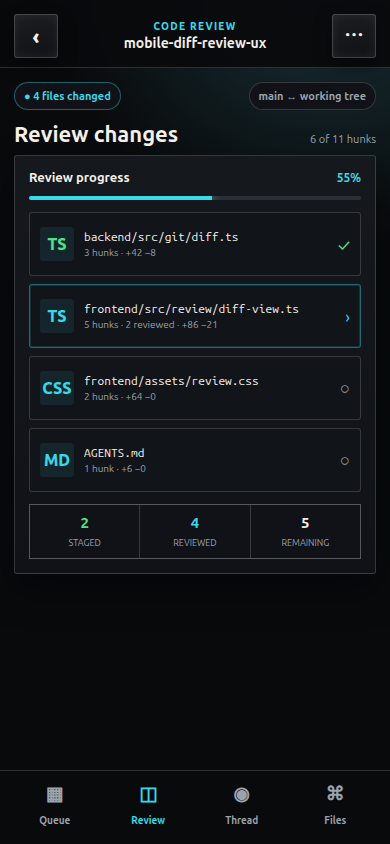
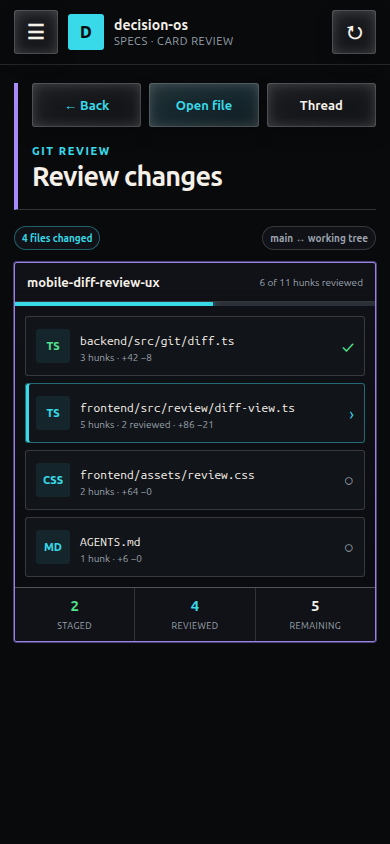
docs(ux): align mobile diff mockups with decision os

diff --git a/.decision-os/ui-mockups/mobile-diff-review/review-shell.css b/.decision-os/ui-mockups/mobile-diff-review/review-shell.css
@@ -10,50 +10,78 @@
   --muted: #9ba3ad;
   --accent: #38d9e8;
   --green: #53e08a;
-  --red: #ff7668;
-  --amber: #f4b942;
+  --red: #d96060;
+  --amber: #f59e0b;
   --zone: #a78bfa;
+  --control-bg: linear-gradient(165deg, #1b1d21 0%, #14161a 54%, #101215 100%);
+  --control-bg-primary: linear-gradient(165deg, #1f3035 0%, #14252b 54%, #0e1b20 100%);
+  --control-shadow: inset 0 0 0 1px rgba(255,255,255,.14), inset 0 0 12px rgba(255,255,255,.16), inset 0 0 24px rgba(255,255,255,.08), 0 7px 18px rgba(0,0,0,.22);
   font-family: Ubuntu, system-ui, sans-serif;
   background: var(--bg);
   color: var(--text);
 }
+
 * { box-sizing: border-box; }
 html, body { width: 390px; height: 844px; margin: 0; overflow: hidden; background: var(--bg); }
 button { color: inherit; font: inherit; }
-.phone { position: relative; width: 390px; height: 844px; overflow: hidden; background: radial-gradient(circle at 85% -5%, #19343a 0, transparent 30%), var(--bg); }
-.topbar { display: grid; grid-template-columns: 44px minmax(0, 1fr) 44px; align-items: center; min-height: 68px; padding: 12px 14px 8px; border-bottom: 1px solid var(--line); background: rgba(9,10,12,.94); }
-.topbar-copy { min-width: 0; text-align: center; }
-.eyebrow { display: block; color: var(--accent); font-size: 10px; font-weight: 850; letter-spacing: .13em; text-transform: uppercase; }
-.topbar strong { display: block; overflow: hidden; margin-top: 3px; font-size: 14px; text-overflow: ellipsis; white-space: nowrap; }
-.icon-button, .action { min-height: 44px; border: 0; border-radius: 3px; background: linear-gradient(165deg,#1b1d21,#101215); box-shadow: inset 0 0 0 1px var(--line), inset 0 0 12px #ffffff14, 0 7px 18px #0006; font-weight: 800; }
-.icon-button { display: grid; width: 44px; place-items: center; font-size: 21px; }
-.content { height: calc(844px - 68px - 74px); overflow: hidden; padding: 14px; }
-.review-meta { display: flex; align-items: center; justify-content: space-between; gap: 10px; margin-bottom: 12px; }
-.pill { display: inline-flex; align-items: center; gap: 6px; min-height: 28px; padding: 5px 9px; border: 1px solid var(--line); border-radius: 999px; color: var(--muted); background: var(--panel-deep); font-size: 11px; font-weight: 750; }
-.pill.accent { border-color: #38d9e866; color: var(--accent); }
-.pill.green { border-color: #53e08a66; color: var(--green); }
-.section-title { display: flex; align-items: end; justify-content: space-between; margin: 0 0 10px; }
-.section-title h1 { margin: 0; font-size: 22px; line-height: 1.05; }
-.section-title small { color: var(--muted); font-size: 11px; }
-.panel { border: 1px solid var(--line); border-radius: 3px; background: linear-gradient(180deg,var(--panel),var(--panel-deep)); box-shadow: 0 16px 38px #0007; }
-.bottom-nav { position: absolute; inset: auto 0 0; display: grid; grid-template-columns: repeat(4,1fr); min-height: 74px; padding: 7px 8px 12px; border-top: 1px solid var(--line); background: rgba(9,10,12,.98); }
-.nav-item { display: grid; place-items: center; gap: 2px; border: 0; color: var(--muted); background: transparent; font-size: 10px; font-weight: 750; }
-.nav-item span { font-size: 19px; line-height: 1; }
-.nav-item.active { color: var(--accent); }
-.progress { height: 4px; overflow: hidden; border-radius: 99px; background: #2b3038; }
-.progress span { display: block; height: 100%; background: var(--accent); box-shadow: 0 0 10px var(--accent); }
-.file-path { overflow: hidden; color: var(--text); font-family: "Ubuntu Mono", monospace; font-size: 12px; text-overflow: ellipsis; white-space: nowrap; }
+
+.phone { position: relative; width: 390px; height: 844px; overflow: hidden; background: var(--bg); }
+.app-topbar { display: flex; align-items: center; gap: 10px; min-height: 64px; padding: 10px 14px; border-bottom: 1px solid rgba(255,255,255,.12); background: rgba(8,10,12,.96); }
+.brand { display: flex; align-items: center; gap: 10px; min-width: 0; flex: 1 1 auto; }
+.brand-mark { display: grid; width: 36px; height: 36px; flex: 0 0 36px; place-items: center; border-radius: 3px; color: var(--bg); background: var(--accent); font-weight: 900; }
+.brand-copy { min-width: 0; }
+.brand strong, .brand small { display: block; overflow: hidden; text-overflow: ellipsis; white-space: nowrap; }
+.brand strong { font-size: 14px; }
+.brand small { margin-top: 2px; color: var(--muted); font-size: 11px; letter-spacing: .05em; text-transform: uppercase; }
+
+.control { min-height: 44px; border: 0; border-radius: 3px; background: var(--control-bg); box-shadow: var(--control-shadow); font-size: 13px; font-weight: 700; }
+.icon-control { display: grid; width: 44px; height: 44px; flex: 0 0 44px; padding: 0; place-items: center; font-size: 20px; }
+.icon-control svg, .control svg { width: 21px; height: 21px; fill: none; stroke: currentColor; stroke-width: 1.8; stroke-linecap: round; stroke-linejoin: round; }
+.control.primary { color: var(--accent); background: var(--control-bg-primary); }
+
+.screen { height: calc(844px - 64px); padding: 18px 14px 22px; overflow: hidden; }
+.card-header { display: grid; gap: 18px; padding: 0 0 18px 14px; border-bottom: 1px solid var(--line); border-left: 4px solid var(--zone); }
+.card-actions { display: grid; grid-template-columns: repeat(3, minmax(0,1fr)); gap: 8px; }
+.card-actions .control { min-width: 0; padding: 0 8px; }
+.back { color: var(--accent); }
+.card-header h1 { margin: 0; font-size: 27px; line-height: 1.08; letter-spacing: -.03em; }
+.eyebrow { margin: 0 0 5px; color: var(--accent); font-size: 11px; font-weight: 800; letter-spacing: .14em; text-transform: uppercase; }
 .muted { color: var(--muted); }
-.diff { overflow: hidden; border: 1px solid var(--line); border-radius: 3px; background: #0c0f13; font-family: "Ubuntu Mono", monospace; font-size: 11px; line-height: 1.55; }
-.line { display: grid; grid-template-columns: 28px 28px minmax(0,1fr); min-height: 25px; align-items: center; }
+
+.review-body { display: grid; gap: 12px; padding-top: 16px; }
+.surface { border: 1px solid color-mix(in srgb, var(--zone), rgba(255,255,255,.18) 12%); border-radius: 3px; background: linear-gradient(180deg, #101217 0%, #090b0f 100%); box-shadow: 0 0 0 1px color-mix(in srgb, var(--zone), transparent 55%); }
+.surface-heading { display: flex; align-items: center; justify-content: space-between; gap: 12px; padding: 12px; border-bottom: 1px solid var(--line); }
+.surface-heading strong { font-size: 13px; }
+.surface-heading small { color: var(--muted); font-size: 10px; }
+.status-row { display: grid; grid-template-columns: repeat(3,1fr); gap: 1px; overflow: hidden; border-top: 1px solid var(--line); background: var(--line); }
+.status-row div { padding: 9px; background: var(--panel-deep); text-align: center; }
+.status-row b { display: block; font-size: 15px; }
+.status-row small { color: var(--muted); font-size: 9px; letter-spacing: .05em; text-transform: uppercase; }
+
+.progress { height: 4px; overflow: hidden; background: #2b3038; }
+.progress span { display: block; height: 100%; background: var(--accent); box-shadow: 0 0 10px var(--accent); }
+.file-path { overflow: hidden; color: var(--text); font: 12px "Ubuntu Mono", ui-monospace, monospace; text-overflow: ellipsis; white-space: nowrap; }
+.pill { display: inline-flex; align-items: center; min-height: 24px; padding: 3px 7px; border: 1px solid var(--line); border-radius: 999px; color: var(--muted); background: var(--panel-deep); font-size: 10px; font-weight: 750; }
+.pill.accent { border-color: rgba(56,217,232,.4); color: var(--accent); }
+.pill.green { border-color: rgba(83,224,138,.4); color: var(--green); }
+
+.diff { overflow: hidden; border: 1px solid var(--line); border-radius: 3px; background: #0c0f13; font: 10.5px/1.5 "Ubuntu Mono", ui-monospace, monospace; }
+.diff-head { display: flex; align-items: center; justify-content: space-between; min-height: 35px; padding: 7px 9px; border-bottom: 1px solid var(--line); background: #12171d; }
+.diff-head span { color: #91a0b3; font-size: 9px; }
+.line { display: grid; grid-template-columns: 27px 27px minmax(0,1fr); min-height: 24px; align-items: center; }
 .line b { color: #5f6875; font-weight: 500; text-align: right; }
-.line code { display: block; overflow: hidden; padding: 3px 8px; color: #d7dce2; white-space: pre; }
+.line code { display: block; overflow: hidden; padding: 3px 7px; color: #d7dce2; white-space: pre; }
 .line.add { background: #163526; }
 .line.add code { color: #b7f7cc; }
 .line.del { background: #3b2022; }
-.line.del code { color: #ffc0bd; text-decoration-color: #ff7668; }
-.line.selected { box-shadow: inset 3px 0 var(--accent); background: #17323a; }
-.hunk-label { padding: 6px 10px; color: #91a0b3; background: #151a21; font-size: 10px; }
-.carousel-dots { display: flex; align-items: center; justify-content: center; gap: 6px; }
-.carousel-dots i { width: 5px; height: 5px; border-radius: 50%; background: #4d5662; }
-.carousel-dots i.active { width: 18px; border-radius: 9px; background: var(--accent); }
+.line.del code { color: #ffc0bd; }
+.line.selected { background: #17323a; box-shadow: inset 3px 0 var(--accent); }
+.collapsed { padding: 6px 9px; color: #91a0b3; background: #151a21; font-size: 9px; }
+
+.terminal-button { position: relative; display: inline-flex; min-height: 44px; padding: 0 14px; align-items: center; justify-content: center; gap: 8px; border: 0; border-radius: 3px; background: #181818; color: #d7dee6; box-shadow: inset 0 0 0 1px rgba(255,255,255,.14), inset 0 0 12px rgba(255,255,255,.216), inset 0 0 24px rgba(255,255,255,.126); font-weight: 600; }
+.terminal-button svg { width: 22px; height: 22px; fill: none; stroke: currentColor; stroke-width: 1.8; stroke-linecap: round; stroke-linejoin: round; }
+.terminal-button.send { color: #2196f3; background: linear-gradient(165deg,#1f2833 0%,#151c25 54%,#11171f 100%); }
+.terminal-button.stop { color: var(--red); background: linear-gradient(165deg,#312023 0%,#251518 54%,#1f1114 100%); }
+.terminal-label { font-size: 11px; letter-spacing: .03em; }
+
+.footer-note { margin: 0; color: var(--muted); font-size: 10px; line-height: 1.4; text-align: center; }

diff --git a/.decision-os/ui-mockups/mobile-diff-review/voice-review.css b/.decision-os/ui-mockups/mobile-diff-review/voice-review.css
@@ -1,17 +1,36 @@
 @import url('./review-shell.css');
-.content { padding-top: 10px; }
-.diff { height: 330px; }
-.voice-sheet { position: absolute; inset: auto 0 0; z-index: 8; min-height: 390px; padding: 16px 14px 24px; border-top: 1px solid #ff766866; background: linear-gradient(180deg,#1b171a 0%,#0c0e11 55%); box-shadow: 0 -24px 55px #000c; }
-.sheet-handle { width: 42px; height: 4px; margin: 0 auto 14px; border-radius: 9px; background: #4d5158; }
-.context { padding: 10px; border-left: 3px solid var(--accent); background: #111820; }
-.context small { display: block; color: var(--accent); font-size: 10px; font-weight: 800; text-transform: uppercase; }
-.context code { display: block; overflow: hidden; margin-top: 6px; color: #d5dde6; font: 11px "Ubuntu Mono",monospace; text-overflow: ellipsis; white-space: nowrap; }
-.recording { text-align: center; }
-.recording strong { display: block; margin-top: 18px; color: var(--red); font-size: 12px; letter-spacing: .1em; text-transform: uppercase; }
-.time { margin-top: 6px; font: 800 28px "Ubuntu Mono",monospace; }
-.wave { display: flex; height: 52px; align-items: center; justify-content: center; gap: 3px; margin: 4px 0 14px; }
-.wave i { width: 3px; border-radius: 2px; background: var(--red); box-shadow: 0 0 8px #ff766866; }
-.wave i:nth-child(3n) { height: 34px; }.wave i:nth-child(3n+1) { height: 18px; }.wave i:nth-child(3n+2) { height: 44px; }
-.record-actions { display: grid; grid-template-columns: 1fr 1.3fr; gap: 8px; }
-.cancel { color: var(--muted); }.send { color: var(--text); background: linear-gradient(165deg,#452529,#28171a); box-shadow: inset 0 0 0 1px #ff766870, inset 0 0 14px #ff766824, 0 7px 18px #0008; }
-.sheet-note { margin: 12px 0 0; color: var(--muted); font-size: 10px; line-height: 1.4; text-align: center; }
+.voice-phone { background: #030405; }
+.thread-panel { display: flex; width: 100%; height: 100%; flex-direction: column; background: #030405; }
+.thread-main { display: flex; min-height: 0; flex: 1 1 auto; flex-direction: column; padding: 18px 20px 12px; background: #0a0a0a; }
+.thread-heading { display: grid; grid-template-columns: minmax(0,1fr) auto 44px; gap: 8px; align-items: center; padding-bottom: 10px; border-bottom: 1px solid rgba(255,255,255,.07); }
+.thread-target { min-width: 0; }
+.thread-target span, .thread-target small { display: block; overflow: hidden; text-overflow: ellipsis; white-space: nowrap; }
+.thread-target span { color: #f3f6fb; font-size: 14px; font-weight: 700; }
+.thread-target small { margin-top: 3px; color: var(--muted); font-size: 9px; }
+.thread-tabs { display: inline-flex; height: 44px; padding: 2px; border: 1px solid rgba(255,255,255,.09); border-radius: 3px; background: #080a0c; }
+.thread-tab { min-width: 44px; height: 38px; padding: 0 6px; border: 0; border-radius: 2px; color: #85909d; background: var(--control-bg); box-shadow: var(--control-shadow); font: 700 8px "Ubuntu Mono",monospace; }
+.thread-tab.active { color: var(--accent); background: var(--control-bg-primary); box-shadow: inset 0 -2px var(--accent); }
+.terminal-button.close { width: 44px; min-width: 44px; padding: 0; font-size: 22px; }
+.thread-feed { display: grid; align-content: start; gap: 12px; min-height: 0; padding-top: 16px; overflow: hidden; }
+.context-card { padding: 11px; border: 1px solid color-mix(in srgb,var(--zone),transparent 45%); border-radius: 3px; background: linear-gradient(180deg,#101217,#090b0f); }
+.context-title { display: grid; gap: 7px; margin-bottom: 10px; }
+.diff { font-size: 9.5px; }
+.prior-note { display: grid; grid-template-columns: 32px minmax(0,1fr) auto; gap: 9px; align-items: center; padding: 9px; border: 1px solid rgba(167,139,250,.35); border-radius: 3px; background: rgba(167,139,250,.07); }
+.prior-note strong, .prior-note small { display: block; }
+.prior-note strong { font-size: 11px; }.prior-note small { margin-top: 3px; color: var(--muted); font-size: 9px; }
+.note-avatar { display: grid; width: 32px; height: 32px; place-items: center; border-radius: 50%; color: #090a0c; background: var(--zone); font-size: 10px; font-weight: 900; }
+.voice-panel { flex: 0 0 232px; padding: 8px 10px 12px; border-top: 1px solid #242424; background: #0a0a0a; }
+.voice-status { display: flex; justify-content: space-between; margin-bottom: 7px; color: #9aa4b2; font-size: 9px; letter-spacing: .08em; text-transform: uppercase; }
+.voice-status strong { color: var(--red); }
+.control-dock { display: grid; height: 140px; grid-template-columns: repeat(3,minmax(0,1fr)) 14px; grid-template-rows: 66px 66px; gap: 8px; }
+.control-dock .terminal-button { width: 100%; height: 66px; min-height: 66px; padding: 7px; }
+.stack { display: grid; grid-template-rows: 1fr 16px; gap: 2px; place-items: center; }
+.stack svg { width: 24px; height: 24px; }
+.control-dock .stop { grid-column: 1; grid-row: 1; }
+.wave-panel { position: relative; grid-column: 2 / 4; grid-row: 1; overflow: hidden; border-radius: 3px; background: radial-gradient(circle at 28% 112%,rgba(56,217,232,.18),transparent 54%),linear-gradient(180deg,#11161c,#07090c); box-shadow: inset 0 0 0 1px rgba(255,255,255,.14), inset 0 0 12px rgba(255,255,255,.22); }
+.wave-panel svg { position: absolute; inset: 0; width: 100%; height: 100%; }
+.wave-timer { position: absolute; top: 5px; right: 6px; z-index: 2; padding: 1px 5px; border-radius: 2px; color: #dbe7f6; background: rgba(10,14,20,.58); font-size: 9px; }
+.meter { position: relative; grid-column: 4; grid-row: 1; overflow: hidden; border-radius: 3px; background: linear-gradient(180deg,#1a232c,#11171d); box-shadow: inset 0 0 0 1px rgba(255,255,255,.14); }
+.meter span { position: absolute; inset: auto 0 0; height: 48%; background: linear-gradient(180deg,#8beaf2,var(--accent)); }
+.control-dock .send:nth-of-type(2) { grid-column: 1; grid-row: 2; }.control-dock .send:nth-of-type(3) { grid-column: 2; grid-row: 2; }.control-dock .send:nth-of-type(4) { grid-column: 3; grid-row: 2; }
+.attach-note { margin: 8px 0 0; color: var(--muted); font-size: 9px; text-align: center; }

diff --git a/.decision-os/ui-mockups/mobile-diff-review/hunk-review.html b/.decision-os/ui-mockups/mobile-diff-review/hunk-review.html
@@ -1,23 +1,14 @@
-<!doctype html><html lang="en"><head><meta charset="utf-8"><meta name="viewport" content="width=390,initial-scale=1"><link rel="stylesheet" href="hunk-review.css"><title>Hunk review</title></head><body><main class="phone">
-  <header class="topbar"><button class="icon-button" aria-label="Back">‹</button><div class="topbar-copy"><span class="eyebrow">frontend/src/review</span><strong>diff-view.ts</strong></div><button class="icon-button" aria-label="Open file">↗</button></header>
-  <section class="content"><div class="hunk-head"><button class="icon-button">‹</button><div class="hunk-index"><strong>Hunk 3 of 5</strong><small>Lines 118–132 · not staged</small></div><button class="icon-button">›</button></div>
-    <div class="diff"><div class="context-bar"><span>@@ -118,9 +118,14 @@</span><b>2 lines selected</b></div>
-      <div class="line"><b>118</b><b>118</b><code>export function renderDiff(input) {</code></div>
-      <div class="line"><b>119</b><b>119</b><code>  const patch = input.patch;</code></div>
-      <div class="line del"><b>120</b><b></b><code>- return legacyRender(patch);</code></div>
-      <div class="line add selected"><b></b><b>120</b><code>+ const review = parsePatchFiles(patch);</code></div>
-      <div class="line add selected"><b></b><b>121</b><code>+ return new PatchDiff({</code></div>
-      <div class="line add"><b></b><b>122</b><code>+   review, enableLineSelection: true,</code></div>
-      <div class="line add"><b></b><b>123</b><code>+   diffStyle: 'unified',</code></div>
-      <div class="line add"><b></b><b>124</b><code>+ });</code></div>
-      <div class="line"><b>121</b><b>125</b><code>}</code></div>
-      <div class="hunk-label">12 unchanged lines · tap to expand</div>
-      <div class="line"><b>138</b><b>142</b><code>export function dispose() {</code></div>
-      <div class="line add"><b></b><b>143</b><code>+ disposeHighlighter();</code></div>
+<!doctype html>
+<html lang="en"><head><meta charset="utf-8"><meta name="viewport" content="width=390,initial-scale=1"><link rel="stylesheet" href="hunk-review.css"><title>Hunk review</title></head>
+<body><main class="phone">
+  <header class="app-topbar"><button class="control icon-control" aria-label="Open navigation">☰</button><div class="brand"><span class="brand-mark">D</span><span class="brand-copy"><strong>decision-os</strong><small>Specs · card review</small></span></div><button class="control icon-control" aria-label="Refresh">↻</button></header>
+  <section class="screen hunk-screen"><header class="review-toolbar"><button class="control icon-control" aria-label="Back">←</button><div><p class="eyebrow">Hunk 3 of 5</p><div class="file-path">frontend/src/review/diff-view.ts</div></div><button class="control icon-control" aria-label="Open file"><svg viewBox="0 0 24 24"><path d="M14 5h5v5M19 5l-8 8M18 14v5H5V6h5"/></svg></button></header>
+    <div class="hunk-nav"><button class="control icon-control">‹</button><div><strong>Lines 118–132</strong><small>2 lines selected · not staged</small></div><button class="control icon-control">›</button></div>
+    <div class="diff"><div class="diff-head"><span>@@ -118,9 +118,14 @@ renderDiff</span><span style="color:var(--accent)">2 SELECTED</span></div>
+      <div class="line"><b>118</b><b>118</b><code>export function renderDiff(input) {</code></div><div class="line"><b>119</b><b>119</b><code>  const patch = input.patch;</code></div><div class="line del"><b>120</b><b></b><code>- return legacyRender(patch);</code></div><div class="line add selected"><b></b><b>120</b><code>+ const review = parsePatchFiles(patch);</code></div><div class="line add selected"><b></b><b>121</b><code>+ return new PatchDiff({</code></div><div class="line add"><b></b><b>122</b><code>+   review, enableLineSelection: true,</code></div><div class="line add"><b></b><b>123</b><code>+   diffStyle: 'unified',</code></div><div class="line add"><b></b><b>124</b><code>+ });</code></div><div class="line"><b>121</b><b>125</b><code>}</code></div><div class="collapsed">12 unchanged lines · tap to expand</div><div class="line"><b>138</b><b>142</b><code>export function dispose() {</code></div>
     </div>
-    <div class="annotation"><span class="avatar">JB</span><div><strong>Voice review · 0:18</strong><small>Attached to lines 120–121 · 4m ago</small></div><span class="play">▶</span></div>
-    <div class="actions"><button class="action stage">Stage selected lines</button><button class="action voice" aria-label="Add voice review">●</button></div>
-    <p class="hint">Swipe between hunks · tap line numbers to select</p>
+    <button class="voice-note"><span class="voice-glyph"><svg viewBox="0 0 24 24"><path d="M8 12h1M11 8v8M14 5v14M17 9v6"/></svg></span><span><strong>Voice review · 0:18</strong><small>JB · lines 120–121 · 4m ago</small></span><span class="play">▶</span></button>
+    <div class="hunk-actions"><button class="terminal-button send"><svg viewBox="0 0 24 24"><path d="M5 12h14M13 6l6 6-6 6"/></svg><span class="terminal-label">STAGE SELECTION</span></button><button class="terminal-button record" aria-label="Record review"><svg viewBox="0 0 24 24"><rect x="9" y="3" width="6" height="11" rx="3"/><path d="M6.5 11.5a5.5 5.5 0 0 0 11 0M12 17v4M9 21h6"/></svg><span class="terminal-label">REC</span></button></div>
+    <p class="footer-note">Swipe between hunks · tap line numbers to select</p>
   </section>
-  <nav class="bottom-nav"><button class="nav-item"><span>▦</span>Queue</button><button class="nav-item active"><span>◫</span>Review</button><button class="nav-item"><span>◉</span>Thread</button><button class="nav-item"><span>⌘</span>Files</button></nav>
 </main></body></html>

diff --git a/.decision-os/ui-mockups/mobile-diff-review/voice-review.html b/.decision-os/ui-mockups/mobile-diff-review/voice-review.html
@@ -1,7 +1,17 @@
-<!doctype html><html lang="en"><head><meta charset="utf-8"><meta name="viewport" content="width=390,initial-scale=1"><link rel="stylesheet" href="voice-review.css"><title>Voice review recording</title></head><body><main class="phone">
-  <header class="topbar"><button class="icon-button">‹</button><div class="topbar-copy"><span class="eyebrow">Hunk 3 of 5</span><strong>diff-view.ts</strong></div><button class="icon-button">⋯</button></header>
-  <section class="content"><div class="review-meta"><span class="pill accent">Lines 120–121</span><span class="pill">1 existing note</span></div>
-    <div class="diff"><div class="hunk-label">@@ -118,9 +118,14 @@ renderDiff</div><div class="line"><b>118</b><b>118</b><code>export function renderDiff(input) {</code></div><div class="line del"><b>120</b><b></b><code>- return legacyRender(patch);</code></div><div class="line add selected"><b></b><b>120</b><code>+ const review = parsePatchFiles(patch);</code></div><div class="line add selected"><b></b><b>121</b><code>+ return new PatchDiff({</code></div><div class="line add"><b></b><b>122</b><code>+   review, enableLineSelection: true,</code></div><div class="line add"><b></b><b>123</b><code>+   diffStyle: 'unified',</code></div><div class="line add"><b></b><b>124</b><code>+ });</code></div></div>
-  </section>
-  <section class="voice-sheet"><div class="sheet-handle"></div><div class="context"><small>Review context</small><code>diff-view.ts · lines 120–121 · hunk 3</code></div><div class="recording"><strong>● Recording voice review</strong><div class="time">00:12</div><div class="wave"><i></i><i></i><i></i><i></i><i></i><i></i><i></i><i></i><i></i><i></i><i></i><i></i><i></i><i></i><i></i><i></i><i></i><i></i><i></i><i></i><i></i></div></div><div class="record-actions"><button class="action cancel">Discard</button><button class="action send">Stop & attach</button></div><p class="sheet-note">This note stays linked to the selected lines and is included in the next agent turn.</p></section>
+<!doctype html>
+<html lang="en"><head><meta charset="utf-8"><meta name="viewport" content="width=390,initial-scale=1"><link rel="stylesheet" href="voice-review.css"><title>Voice review recording</title></head>
+<body><main class="phone voice-phone">
+  <section class="thread-panel"><main class="thread-main"><header class="thread-heading"><div class="thread-target"><span>Review · diff-view.ts</span><small>Lines 120–121 · hunk 3 of 5</small></div><div class="thread-tabs"><button class="thread-tab active">THREAD</button><button class="thread-tab">CODEX LOG</button></div><button class="terminal-button close" aria-label="Close">×</button></header>
+    <div class="thread-feed"><article class="context-card"><div class="context-title"><span class="pill accent">REVIEW CONTEXT</span><span class="file-path">frontend/src/review/diff-view.ts</span></div><div class="diff"><div class="diff-head"><span>@@ -118,9 +118,14 @@ renderDiff</span><span style="color:var(--accent)">LINES 120–121</span></div><div class="line del"><b>120</b><b></b><code>- return legacyRender(patch);</code></div><div class="line add selected"><b></b><b>120</b><code>+ const review = parsePatchFiles(patch);</code></div><div class="line add selected"><b></b><b>121</b><code>+ return new PatchDiff({</code></div><div class="line add"><b></b><b>122</b><code>+   review, enableLineSelection: true,</code></div></div></article>
+      <article class="prior-note"><span class="note-avatar">JB</span><div><strong>Prior voice review · 0:18</strong><small>Attached 4m ago</small></div><span>▶</span></article>
+    </div>
+  </main>
+  <footer class="voice-panel"><div class="voice-status"><span>Review input</span><strong>recording</strong></div><div class="control-dock">
+    <button class="terminal-button stop stack"><svg viewBox="0 0 24 24"><path d="m7 7 10 10M17 7 7 17"/></svg><span class="terminal-label">CANCEL</span></button>
+    <section class="wave-panel"><span class="wave-timer">00:12</span><svg viewBox="0 0 220 66" preserveAspectRatio="none"><defs><linearGradient id="wave" x1="0" y1="0" x2="1" y2="0"><stop stop-color="#244f55"/><stop offset="1" stop-color="#38d9e8"/></linearGradient></defs><path d="M0 36 C12 36 16 18 27 33 S43 53 53 31 S69 12 79 35 S94 53 105 28 S122 17 132 35 S149 56 159 29 S176 14 187 34 S205 44 220 26" fill="none" stroke="url(#wave)" stroke-width="2.2"/><path d="M0 46 C14 43 24 54 39 39 S62 30 76 44 S101 48 117 38 S143 31 157 42 S184 51 220 34" fill="none" stroke="#38d9e8" stroke-opacity=".35" stroke-width="1"/></svg></section>
+    <aside class="meter"><span></span></aside>
+    <button class="terminal-button send stack"><svg viewBox="0 0 24 24"><path d="M4 12 20 4l-5 16-3.5-6.5L4 12Z"/><path d="m11.5 13.5 4-4"/></svg><span class="terminal-label">SEND</span></button>
+    <button class="terminal-button send stack"><svg viewBox="0 0 24 24"><path d="M5 12h14M13 6l6 6-6 6"/></svg><span class="terminal-label">RUN</span></button>
+    <button class="terminal-button send stack"><svg viewBox="0 0 24 24"><path d="M5 6h5v5H5zM14 13h5v5h-5zM10 8.5h4a2 2 0 0 1 2 2V13"/></svg><span class="terminal-label">PIPELINE</span></button>
+  </div><p class="attach-note">SEND attaches the recording to this exact line selection.</p></footer></section>
 </main></body></html>

diff --git a/.decision-os/ui-mockups/mobile-diff-review/review-overview.html b/.decision-os/ui-mockups/mobile-diff-review/review-overview.html
@@ -1,16 +1,18 @@
-<!doctype html><html lang="en"><head><meta charset="utf-8"><meta name="viewport" content="width=390,initial-scale=1"><link rel="stylesheet" href="review-overview.css"><title>Review overview</title></head><body><main class="phone">
-  <header class="topbar"><button class="icon-button" aria-label="Back">‹</button><div class="topbar-copy"><span class="eyebrow">Code review</span><strong>mobile-diff-review-ux</strong></div><button class="icon-button" aria-label="Review options">⋯</button></header>
-  <section class="content"><div class="review-meta"><span class="pill accent">● 4 files changed</span><span class="pill">main ↔ working tree</span></div>
-    <div class="section-title"><h1>Review changes</h1><small>6 of 11 hunks</small></div>
-    <section class="panel summary"><div class="summary-head"><strong>Review progress</strong><b>55%</b></div><div class="progress"><span style="width:55%"></span></div>
-      <div class="files">
-        <div class="file done"><span class="file-icon">TS</span><div class="file-copy"><div class="file-path">backend/src/git/diff.ts</div><small>3 hunks · +42 −8</small></div><span class="file-state">✓</span></div>
-        <div class="file active"><span class="file-icon">TS</span><div class="file-copy"><div class="file-path">frontend/src/review/diff-view.ts</div><small>5 hunks · 2 reviewed · +86 −21</small></div><span class="file-state">›</span></div>
-        <div class="file"><span class="file-icon">CSS</span><div class="file-copy"><div class="file-path">frontend/assets/review.css</div><small>2 hunks · +64 −0</small></div><span class="file-state">○</span></div>
-        <div class="file"><span class="file-icon">MD</span><div class="file-copy"><div class="file-path">AGENTS.md</div><small>1 hunk · +6 −0</small></div><span class="file-state">○</span></div>
-      </div>
-      <div class="legend"><div><b style="color:var(--green)">2</b><small>staged</small></div><div><b style="color:var(--accent)">4</b><small>reviewed</small></div><div><b>5</b><small>remaining</small></div></div>
-    </section>
+<!doctype html>
+<html lang="en"><head><meta charset="utf-8"><meta name="viewport" content="width=390,initial-scale=1"><link rel="stylesheet" href="review-overview.css"><title>Review overview</title></head>
+<body><main class="phone">
+  <header class="app-topbar"><button class="control icon-control" aria-label="Open navigation">☰</button><div class="brand"><span class="brand-mark">D</span><span class="brand-copy"><strong>decision-os</strong><small>Specs · card review</small></span></div><button class="control icon-control" aria-label="Refresh">↻</button></header>
+  <section class="screen"><header class="card-header"><div class="card-actions"><button class="control back">← Back</button><button class="control primary">Open file</button><button class="control">Thread</button></div><div><p class="eyebrow">Git review</p><h1>Review changes</h1></div></header>
+    <div class="review-body"><div class="compare"><span class="pill accent">4 files changed</span><span class="pill">main ↔ working tree</span></div>
+      <section class="surface summary"><div class="surface-heading"><strong>mobile-diff-review-ux</strong><small>6 of 11 hunks reviewed</small></div><div class="progress"><span style="width:55%"></span></div>
+        <div class="files">
+          <button class="file complete"><span class="file-icon">TS</span><span class="file-copy"><span class="file-path">backend/src/git/diff.ts</span><small>3 hunks · +42 −8</small></span><span class="file-state">✓</span></button>
+          <button class="file active"><span class="file-icon">TS</span><span class="file-copy"><span class="file-path">frontend/src/review/diff-view.ts</span><small>5 hunks · 2 reviewed · +86 −21</small></span><span class="file-state">›</span></button>
+          <button class="file"><span class="file-icon">CSS</span><span class="file-copy"><span class="file-path">frontend/assets/review.css</span><small>2 hunks · +64 −0</small></span><span class="file-state">○</span></button>
+          <button class="file"><span class="file-icon">MD</span><span class="file-copy"><span class="file-path">AGENTS.md</span><small>1 hunk · +6 −0</small></span><span class="file-state">○</span></button>
+        </div>
+        <div class="status-row"><div><b style="color:var(--green)">2</b><small>staged</small></div><div><b style="color:var(--accent)">4</b><small>reviewed</small></div><div><b>5</b><small>remaining</small></div></div>
+      </section>
+    </div>
   </section>
-  <nav class="bottom-nav"><button class="nav-item"><span>▦</span>Queue</button><button class="nav-item active"><span>◫</span>Review</button><button class="nav-item"><span>◉</span>Thread</button><button class="nav-item"><span>⌘</span>Files</button></nav>
 </main></body></html>

diff --git a/.decision-os/ui-mockups/mobile-diff-review/staged-hunk.html b/.decision-os/ui-mockups/mobile-diff-review/staged-hunk.html
@@ -1,9 +1,11 @@
-<!doctype html><html lang="en"><head><meta charset="utf-8"><meta name="viewport" content="width=390,initial-scale=1"><link rel="stylesheet" href="staged-hunk.css"><title>Staged hunk</title></head><body><main class="phone">
-  <header class="topbar"><button class="icon-button">‹</button><div class="topbar-copy"><span class="eyebrow">Hunk 3 of 5</span><strong>diff-view.ts</strong></div><button class="icon-button">↗</button></header>
-  <section class="content"><div class="locked"><span class="lock-icon">✓</span><div><strong>Staged and protected</strong><small>The agent must not modify these accepted lines.</small></div></div>
-    <div class="diff"><div class="context-bar" style="display:flex;justify-content:space-between;padding:8px 10px;background:#121a16"><span class="muted">@@ -118,9 +118,14 @@</span><span style="color:var(--green);font-size:10px">STAGED</span></div><div class="line"><b>118</b><b>118</b><code>export function renderDiff(input) {</code></div><div class="line del"><b>120</b><b></b><code>- return legacyRender(patch);</code></div><div class="line add"><b></b><b>120</b><code>+ const review = parsePatchFiles(patch);</code></div><div class="line add"><b></b><b>121</b><code>+ return new PatchDiff({</code></div><div class="line add"><b></b><b>122</b><code>+   review, enableLineSelection: true,</code></div><div class="line add"><b></b><b>123</b><code>+   diffStyle: 'unified',</code></div><div class="line add"><b></b><b>124</b><code>+ });</code></div><div class="line"><b>121</b><b>125</b><code>}</code></div><div class="hunk-label">12 unchanged lines · tap to expand</div></div>
-    <div class="stage-meta"><div><small>Accepted by</small><strong>JB · just now</strong></div><div><small>Voice reviews</small><strong>2 attached</strong></div></div>
-    <div class="actions"><button class="action unstage">Unstage</button><button class="action next">Next hunk ›</button></div>
+<!doctype html>
+<html lang="en"><head><meta charset="utf-8"><meta name="viewport" content="width=390,initial-scale=1"><link rel="stylesheet" href="staged-hunk.css"><title>Staged hunk</title></head>
+<body><main class="phone">
+  <header class="app-topbar"><button class="control icon-control" aria-label="Open navigation">☰</button><div class="brand"><span class="brand-mark">D</span><span class="brand-copy"><strong>decision-os</strong><small>Specs · card review</small></span></div><button class="control icon-control" aria-label="Refresh">↻</button></header>
+  <section class="screen staged-screen"><header class="review-toolbar"><button class="control icon-control" aria-label="Back">←</button><div><p class="eyebrow">Hunk 3 of 5</p><div class="file-path">frontend/src/review/diff-view.ts</div></div><button class="control icon-control" aria-label="Open file"><svg viewBox="0 0 24 24"><path d="M14 5h5v5M19 5l-8 8M18 14v5H5V6h5"/></svg></button></header>
+    <section class="accepted surface"><span class="accepted-icon">✓</span><div><strong>Staged and protected</strong><small>The agent must leave these accepted lines unchanged.</small></div></section>
+    <div class="diff staged-diff"><div class="diff-head"><span>@@ -118,9 +118,14 @@ renderDiff</span><span style="color:var(--green)">STAGED</span></div><div class="line"><b>118</b><b>118</b><code>export function renderDiff(input) {</code></div><div class="line del"><b>120</b><b></b><code>- return legacyRender(patch);</code></div><div class="line add"><b></b><b>120</b><code>+ const review = parsePatchFiles(patch);</code></div><div class="line add"><b></b><b>121</b><code>+ return new PatchDiff({</code></div><div class="line add"><b></b><b>122</b><code>+   review, enableLineSelection: true,</code></div><div class="line add"><b></b><b>123</b><code>+   diffStyle: 'unified',</code></div><div class="line add"><b></b><b>124</b><code>+ });</code></div><div class="line"><b>121</b><b>125</b><code>}</code></div><div class="collapsed">12 unchanged lines · tap to expand</div></div>
+    <div class="status-row stage-meta"><div><small>accepted by</small><b>JB · now</b></div><div><small>voice reviews</small><b>2 attached</b></div><div><small>review state</small><b style="color:var(--green)">protected</b></div></div>
+    <div class="stage-actions"><button class="terminal-button unstage"><span class="terminal-label">UNSTAGE</span></button><button class="terminal-button send"><svg viewBox="0 0 24 24"><path d="M5 12h14M13 6l6 6-6 6"/></svg><span class="terminal-label">NEXT HUNK</span></button></div>
   </section>
-  <nav class="bottom-nav"><button class="nav-item"><span>▦</span>Queue</button><button class="nav-item active"><span>◫</span>Review</button><button class="nav-item"><span>◉</span>Thread</button><button class="nav-item"><span>⌘</span>Files</button></nav>
 </main></body></html>

diff --git a/.decision-os/ui-mockups/mobile-diff-review/hunk-review.css b/.decision-os/ui-mockups/mobile-diff-review/hunk-review.css
@@ -1,20 +1,19 @@
 @import url('./review-shell.css');
-.content { padding-top: 10px; }
-.hunk-head { display: grid; grid-template-columns: 44px minmax(0,1fr) 44px; gap: 8px; align-items: center; margin-bottom: 10px; }
-.hunk-index { text-align: center; }
-.hunk-index strong { display: block; font-size: 13px; }
-.hunk-index small { color: var(--muted); font-size: 10px; }
-.diff { height: 392px; }
-.context-bar { display: flex; align-items: center; justify-content: space-between; padding: 8px 10px; border-bottom: 1px solid var(--line); background: #12171d; }
-.context-bar span { color: var(--muted); font-size: 10px; }
-.context-bar b { color: var(--accent); font-size: 10px; }
-.annotation { display: grid; grid-template-columns: 32px minmax(0,1fr) auto; gap: 9px; align-items: center; margin-top: 10px; padding: 10px; border: 1px solid #a78bfa66; background: #a78bfa12; }
-.avatar { display: grid; width: 32px; height: 32px; place-items: center; border-radius: 50%; color: #0b0c0e; background: var(--zone); font-size: 11px; font-weight: 900; }
-.annotation strong { display: block; font-size: 12px; }
-.annotation small { display: block; margin-top: 3px; color: var(--muted); font-size: 10px; }
-.play { color: var(--zone); font-size: 20px; }
-.actions { display: grid; grid-template-columns: 1fr 56px; gap: 8px; margin-top: 10px; }
-.action { min-height: 50px; }
-.stage { color: var(--green); box-shadow: inset 0 0 0 1px #53e08a66, inset 0 0 12px #53e08a14, 0 7px 18px #0006; }
-.voice { color: var(--red); font-size: 22px; }
-.hint { margin: 9px 0 0; color: var(--muted); font-size: 10px; text-align: center; }
+.hunk-screen { padding-top: 12px; }
+.review-toolbar { display: grid; grid-template-columns: 44px minmax(0,1fr) 44px; gap: 10px; align-items: center; padding-bottom: 11px; border-bottom: 1px solid var(--line); }
+.review-toolbar .eyebrow { margin-bottom: 3px; }
+.hunk-nav { display: grid; grid-template-columns: 44px minmax(0,1fr) 44px; gap: 8px; align-items: center; margin: 10px 0; text-align: center; }
+.hunk-nav strong, .hunk-nav small { display: block; }
+.hunk-nav strong { font-size: 13px; }
+.hunk-nav small { margin-top: 3px; color: var(--muted); font-size: 10px; }
+.diff { height: 370px; }
+.voice-note { display: grid; grid-template-columns: 34px minmax(0,1fr) auto; gap: 9px; align-items: center; width: 100%; margin-top: 10px; padding: 9px; border: 1px solid rgba(167,139,250,.4); border-radius: 3px; color: var(--text); background: rgba(167,139,250,.07); box-shadow: none; text-align: left; }
+.voice-glyph { display: grid; width: 34px; height: 34px; place-items: center; color: color-mix(in srgb,var(--zone),white 25%); background: rgba(167,139,250,.12); }
+.voice-glyph svg { width: 20px; height: 20px; fill: none; stroke: currentColor; stroke-width: 1.8; stroke-linecap: round; }
+.voice-note strong, .voice-note small { display: block; }
+.voice-note strong { font-size: 11px; }
+.voice-note small { margin-top: 3px; color: var(--muted); font-size: 9px; }
+.play { color: var(--zone); }
+.hunk-actions { display: grid; grid-template-columns: minmax(0,1fr) 74px; gap: 8px; margin-top: 10px; }
+.terminal-button.record { color: var(--red); }
+.footer-note { margin-top: 8px; }

diff --git a/.decision-os/ui-mockups/mobile-diff-review/staged-hunk.css b/.decision-os/ui-mockups/mobile-diff-review/staged-hunk.css
@@ -1,14 +1,13 @@
 @import url('./review-shell.css');
-.content { padding-top: 10px; }
-.locked { display: flex; align-items: center; gap: 10px; margin-bottom: 10px; padding: 10px; border: 1px solid #53e08a70; background: #53e08a12; }
-.lock-icon { display: grid; width: 34px; height: 34px; flex: 0 0 auto; place-items: center; border-radius: 50%; color: #07130c; background: var(--green); font-size: 17px; }
-.locked strong { display: block; color: var(--green); font-size: 12px; }
-.locked small { display: block; margin-top: 3px; color: var(--muted); font-size: 10px; }
-.diff { height: 374px; border-color: #53e08a55; }
-.diff .line.add { background: #163526aa; }
-.stage-meta { display: grid; grid-template-columns: repeat(2,1fr); gap: 1px; margin-top: 10px; overflow: hidden; border: 1px solid var(--line); background: var(--line); }
-.stage-meta div { padding: 10px; background: var(--panel-deep); }
-.stage-meta small { display: block; color: var(--muted); font-size: 9px; text-transform: uppercase; }
-.stage-meta strong { display: block; margin-top: 4px; font-size: 11px; }
-.actions { display: grid; grid-template-columns: .8fr 1.2fr; gap: 8px; margin-top: 10px; }
-.unstage { color: var(--amber); }.next { color: var(--accent); }
+.staged-screen { padding-top: 12px; }
+.review-toolbar { display: grid; grid-template-columns: 44px minmax(0,1fr) 44px; gap: 10px; align-items: center; padding-bottom: 11px; border-bottom: 1px solid var(--line); }
+.review-toolbar .eyebrow { margin-bottom: 3px; }
+.accepted { display: grid; grid-template-columns: 36px minmax(0,1fr); gap: 10px; align-items: center; margin: 12px 0 10px; padding: 10px; border-color: rgba(83,224,138,.45); box-shadow: 0 0 0 1px rgba(83,224,138,.12); }
+.accepted-icon { display: grid; width: 36px; height: 36px; place-items: center; border-radius: 3px; color: #07130c; background: var(--green); font-weight: 900; }
+.accepted strong, .accepted small { display: block; }.accepted strong { color: var(--green); font-size: 12px; }.accepted small { margin-top: 3px; color: var(--muted); font-size: 9px; }
+.staged-diff { height: 350px; border-color: rgba(83,224,138,.34); }
+.staged-diff .line.add { background: rgba(22,53,38,.75); }
+.stage-meta { margin-top: 10px; border: 1px solid var(--line); }
+.stage-meta b { margin-top: 3px; font-size: 10px; }
+.stage-actions { display: grid; grid-template-columns: .8fr 1.2fr; gap: 8px; margin-top: 10px; }
+.unstage { color: var(--amber); }

diff --git a/.decision-os/ui-mockups/mobile-diff-review/review-overview.css b/.decision-os/ui-mockups/mobile-diff-review/review-overview.css
@@ -1,17 +1,12 @@
 @import url('./review-shell.css');
-.summary { padding: 14px; }
-.summary-head { display: flex; align-items: center; justify-content: space-between; margin-bottom: 12px; }
-.summary-head strong { font-size: 13px; }
-.summary-head b { color: var(--accent); font-size: 12px; }
-.files { display: grid; gap: 8px; margin-top: 12px; }
-.file { display: grid; grid-template-columns: 34px minmax(0,1fr) auto; gap: 10px; align-items: center; min-height: 64px; padding: 10px; border: 1px solid var(--line); border-radius: 3px; background: #111419; }
-.file-icon { display: grid; width: 34px; height: 34px; place-items: center; border-radius: 3px; color: var(--accent); background: #38d9e817; font-weight: 900; }
+.compare { display: flex; align-items: center; justify-content: space-between; gap: 8px; }
+.summary { overflow: hidden; }
+.files { display: grid; gap: 7px; padding: 10px; }
+.file { display: grid; grid-template-columns: 34px minmax(0,1fr) auto; gap: 10px; align-items: center; width: 100%; min-height: 60px; padding: 9px 10px; border: 1px solid var(--line); border-radius: 3px; color: var(--text); background: #111419; box-shadow: none; text-align: left; }
+.file-icon { display: grid; width: 34px; height: 34px; place-items: center; border-radius: 3px; color: var(--accent); background: rgba(56,217,232,.09); font-size: 11px; font-weight: 900; }
+.file-copy { min-width: 0; }
 .file-copy small { display: block; margin-top: 4px; color: var(--muted); font-size: 10px; }
 .file-state { color: var(--muted); font-size: 17px; }
-.file.done .file-icon, .file.done .file-state { color: var(--green); }
-.file.active { border-color: #38d9e870; box-shadow: inset 0 0 0 1px #38d9e826; }
+.file.complete .file-icon, .file.complete .file-state { color: var(--green); }
+.file.active { border-color: rgba(56,217,232,.44); box-shadow: inset 3px 0 var(--accent); }
 .file.active .file-state { color: var(--accent); }
-.legend { display: grid; grid-template-columns: repeat(3,1fr); gap: 1px; margin-top: 12px; overflow: hidden; border: 1px solid var(--line); background: var(--line); }
-.legend div { padding: 9px; background: var(--panel-deep); text-align: center; }
-.legend b { display: block; font-size: 15px; }
-.legend small { color: var(--muted); font-size: 9px; text-transform: uppercase; }
